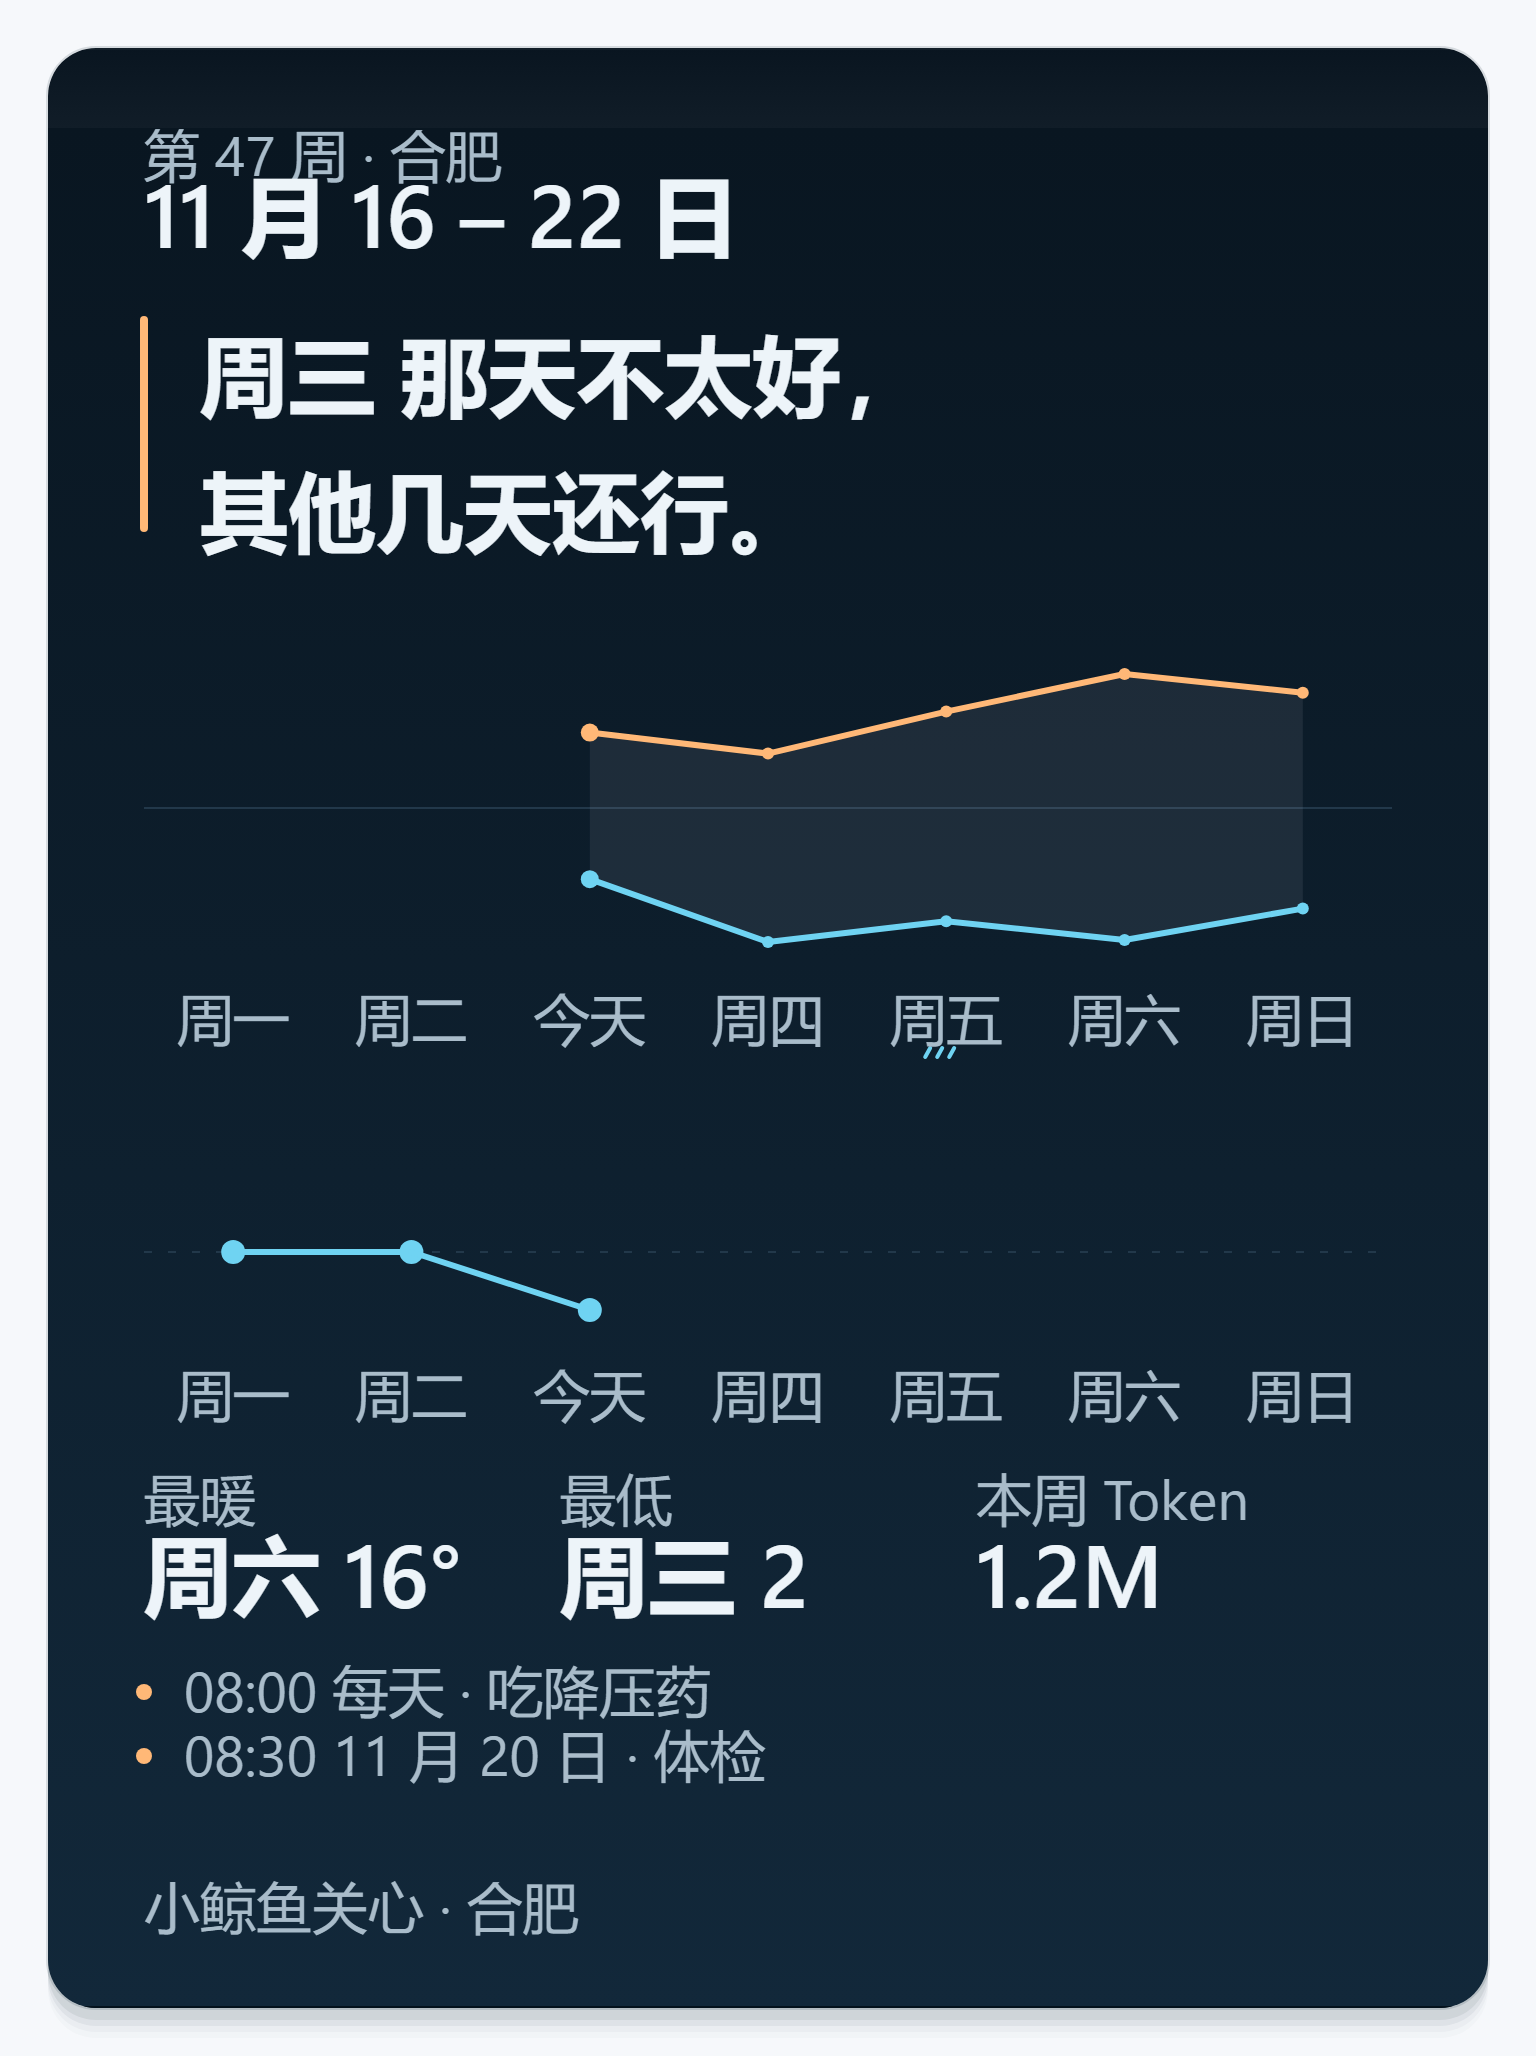
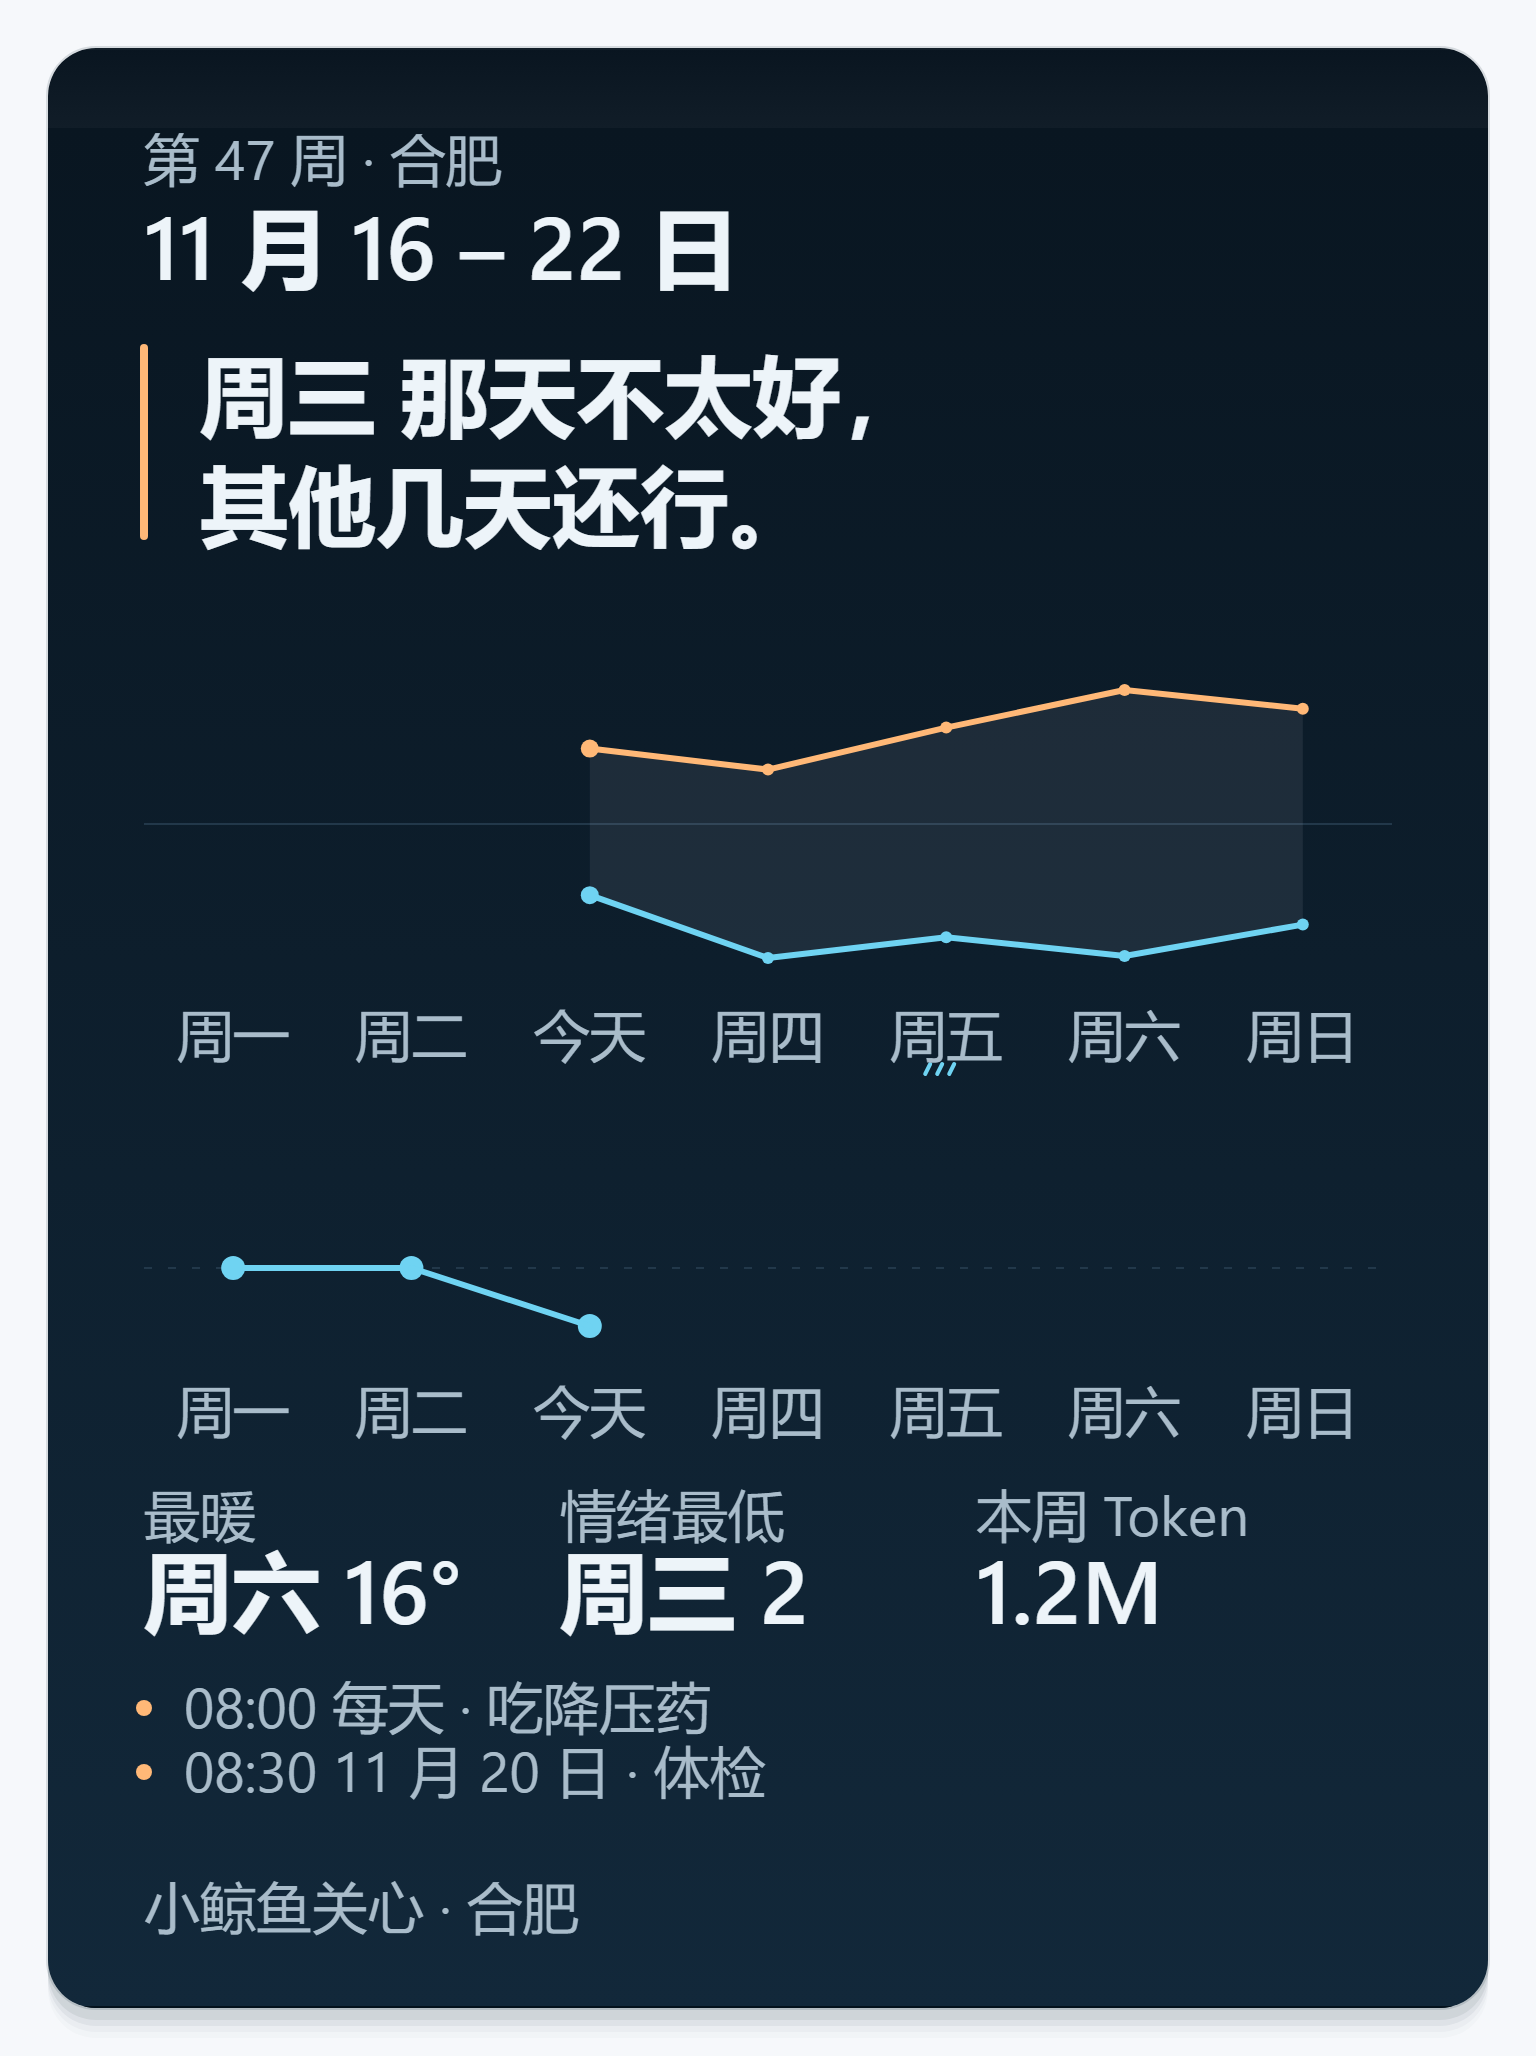
feat: 周卡按 v1.1 重排区带（头两行不再相撞）+ 事实带第二格定名
- 区带按规格 v1.1（159 行）重排：头 40–124（周序 66 / 区间 116）、导语 148–256
  （竖线 150–244，基线 190/245，行距 55）、温度 280–508（轨道 300–476，中线 388，
  日标 504，雨标 508–513）、情绪 532–692（轨道 552–668，中性 610，日标 692）、
  事实 716–792（标签 744 / 值 788）、提醒 816–892（基线 840/872）、脚 916–946 不动
- 事实带第二格：标签「最低」→「情绪最低」，值格式 周三 2 / 周三 2.5（整数不补零、
  非整数 1 位，不写「分」）
- 实测（2x 图逐像素扫）：头两行净缝 12.0px（旧版字形互相压 0.5px），导语两行行距 54.5px
- 单测补 6 条几何断言（66/116、190/245、388、744/788、840/872、610/940），共 72 条
- assets/screenshot-week.png 重渲（1536×2056，245KB），日卡三张 sha 未变

diff --git a/test/card-week.test.js b/test/card-week.test.js
@@ -69,26 +69,33 @@ test('weekly card', async () => {
   assert(svg.startsWith('<svg') && svg.endsWith('</svg>'), '是一个完整 SVG')
   checkBudget(svg)
   assert(svg.includes('第 47 周') && svg.includes('11 月 16 – 22 日'), '头：第 47 周 + 本周区间')
+  // 规格 v1.1 的新区带（159 行）：头 40–124 / 导语 148–256 / 温度 280–508 / 情绪 532–692 / 事实 716–792 / 提醒 816–892
+  assert(svg.includes('<text x="48" y="66"') && svg.includes('<text x="48" y="116"'), '头两行基线 66 / 116')
+  assert(svg.includes('<text x="76" y="190"') && svg.includes('<text x="76" y="245"'), '导语基线 190 / 245（行距 55）')
+  assert(svg.includes('y1="388" x2="672" y2="388"'), '温度带中线在 388（= 300/476 中点）')
+  assert(svg.includes('<text x="48" y="744"') && svg.includes('y="788"'), '事实带标签 @744 / 值 @788')
+  assert(svg.includes('<text x="68" y="840"') && svg.includes('<text x="68" y="872"'), '提醒基线 840 / 872')
+  assert(svg.includes('y1="610"') && svg.includes('<text x="48" y="940"'), '情绪中性基线 610 / 脚 940')
   // 7 列 = 周一…周日；今天在第 3 列，两张图同一个 x（§9-2）
-  const todayLabels = [...svg.matchAll(/<text x="([\d.]+)" y="(496|684)"[^>]*>今天<\/text>/g)];
+  const todayLabels = [...svg.matchAll(/<text x="([\d.]+)" y="(504|692)"[^>]*>今天<\/text>/g)];
   assert(todayLabels.length === 2 && todayLabels.every((m) => Number(m[1]) === WEEK_COLUMNS[2]), '两张图的「今天」都在第 3 列 x≈270.9')
   // 温度带只画今天→周日：周一 / 周二两列没有点（那是过去的预报，不存在）
   const circleOf = (source) => [...source.matchAll(/<circle cx="([\d.]+)" cy="([\d.]+)" r="([\d.]+)"/g)]
     .map((m) => ({ cx: Number(m[1]), cy: Number(m[2]), r: Number(m[3]) }));
-  const tempDots = circleOf(svg).filter((c) => c.cy >= 292 && c.cy <= 468);
+  const tempDots = circleOf(svg).filter((c) => c.cy >= 300 && c.cy <= 476);
   assert(!tempDots.some((c) => c.cx === WEEK_COLUMNS[0] || c.cx === WEEK_COLUMNS[1]), '周一/周二不画温度点')
   assert(tempDots.some((c) => c.cx === WEEK_COLUMNS[2] && c.r === 4.5), '今天（第 3 列）的点更大：9px')
   // 情绪线只画周一→今天：周四之后没有点、也没有空心圈
-  assert(!circleOf(svg).some((c) => c.cy >= 524 && c.cx === WEEK_COLUMNS[3]), '周四（未来）不画情绪点')
+  assert(!circleOf(svg).some((c) => c.cy >= 532 && c.cx === WEEK_COLUMNS[3]), '周四（未来）不画情绪点')
   // 情绪最低那天 avg=2 → 导语走第 2 条（16 当量，按 572 宽度折成两行）
   assert(svg.includes('周三 那天不太好，') && svg.includes('其他几天还行。'), '导语用第 2 条（折两行，行首不出标点）')
   assert(svg.includes('最暖 周六 16°') || (svg.includes('最暖') && svg.includes('周六 16°')), '事实左：最暖 周六 16°')
-  assert(svg.includes('最低') && svg.includes('周三 2'), '事实中：情绪最低 周三 2')
+  assert(svg.includes('情绪最低') && svg.includes('周三 2'), '事实中：情绪最低 周三 2')
   assert(svg.includes('本周 Token') && svg.includes('1.2M'), '事实右：1.2M（§10 格式）')
   assert(svg.includes('08:30 11 月 20 日 · 体检'), '提醒行：时间 + 时间表 + 内容')
   assert(svg.includes('08:00 每天 · 吃降压药'), '提醒行：每天')
   // 雨标只在有雨的天（周五 rain=55）
-  const rainMarks = [...svg.matchAll(/<line x1="([\d.]+)" y1="500"/g)].map((m) => Number(m[1]));
+  const rainMarks = [...svg.matchAll(/<line x1="([\d.]+)" y1="508"/g)].map((m) => Number(m[1]));
   assert(rainMarks.length === 3 && rainMarks.every((x) => x > WEEK_COLUMNS[3] && x < WEEK_COLUMNS[5]), '只有周五有 3 条雨标')
 
   // 导语第 5 条：没有 ≤2 分的日子、温差 <8、雨日 <3 → 记了 N 次 / 平均 X 分
@@ -133,7 +140,7 @@ test('weekly card', async () => {
 
   // ── 空态 4：无 usage → 事实带 2 栏 x=48/360 ────────────────────────
   const twoCol = buildWeeklyCardSvg(buildWeeklyReview({ data, moods, now }), {}, { now })
-  const factXs = [...twoCol.matchAll(/<text x="([\d.]+)" y="736"/g)].map((m) => Number(m[1]));
+  const factXs = [...twoCol.matchAll(/<text x="([\d.]+)" y="744"/g)].map((m) => Number(m[1]));
   assert(factXs.join(',') === '48,360', '2 栏时 x = 48 / 360（实际 ' + factXs.join(',') + '）')
   assert(!twoCol.includes('本周 Token'), '2 栏时没有 token 格')
 
@@ -141,7 +148,7 @@ test('weekly card', async () => {
   const few = buildWeeklyCardSvg(buildWeeklyReview({ data: { ...data, days: FORECAST_MIDWEEK.slice(0, 3) }, now }), {}, { now })
   assert(few.includes('week-range') && few.includes('stroke-width="8"'), '≤3 天：退化成 8px 区间条（cool→warm）')
   assert(!few.includes('<polyline'), '≤3 天：不画 7 列折线')
-  assert((few.match(/y="496"/g) || []).length === 2, '≤3 天：温度日标不画，只留两端值')
+  assert((few.match(/y="504"/g) || []).length === 2, '≤3 天：温度日标不画，只留两端值')
 
   // ── 空态 6：同温 ──────────────────────────────────────────────────
   const flat = buildWeeklyCardSvg(buildWeeklyReview({ data: { ...data, days: FORECAST_MIDWEEK.map((d) => ({ ...d, min: 12, max: 12 })) }, now }), {}, { now })
@@ -151,7 +158,7 @@ test('weekly card', async () => {
   // ── 空态 7：长城市名 → 14 全角当量 + … ─────────────────────────────
   const longCity = '内蒙古自治区呼伦贝尔市额尔古纳市恩和俄罗斯族民族乡'
   const longSvg = buildWeeklyCardSvg(buildWeeklyReview({ data: { ...data, place: longCity }, now }), {}, { now })
-  const head = /<text x="48" y="64"[^>]*>([^<]*)<\/text>/.exec(longSvg)?.[1] ?? ''
+  const head = /<text x="48" y="66"[^>]*>([^<]*)<\/text>/.exec(longSvg)?.[1] ?? ''
   assert(head.endsWith('…'), '长城市名截断加省略号（' + head + '）')
   assert(measureCardText(head, 28) <= 588, '头行 ≤588px（' + Math.round(measureCardText(head, 28)) + 'px）')
 
@@ -219,5 +226,5 @@ test('weekly card', async () => {
   rmSync(home, { recursive: true, force: true })
   delete process.env.DSH_HOME
 
-  nodeAssert.equal(total(), 66, '断言总数 66')
+  nodeAssert.equal(total(), 72, '断言总数 72')
 })

diff --git a/lib/card-week.js b/lib/card-week.js
@@ -19,22 +19,29 @@ export const WEEK_COLUMNS = [92.6, 181.7, 270.9, 360.0, 449.1, 538.3, 627.4];
 const WEEKDAYS = ['周一', '周二', '周三', '周四', '周五', '周六', '周日'];
 
 // 区带（§4.3 + §1 的三处改动后的最终值）
-const TEMP_TOP = 292;
-const TEMP_BOTTOM = 468;
-const TEMP_MID = 380;
-const TEMP_LABEL_Y = 496;
-const RAIN_TOP = 500;
-const RAIN_DY = 4.5;          // 端点 (x−2.5, 504.5)
-const MOOD_TOP = 544;
-const MOOD_BOTTOM = 660;
-const MOOD_MID = 602;
-const MOOD_LABEL_Y = 684;
-const FACT_LABEL_Y = 736;
-const FACT_VALUE_Y = 780;
+// 区带 y 全部按规格 v1.1（159 行）：头 40–124 / 导语 148–256 / 温度 280–508 /
+// 情绪 532–692 / 事实 716–792 / 提醒 816–892 / 脚 916–946
+const HEAD_WEEK_Y = 66;        // 周序 28/ink2
+const HEAD_RANGE_Y = 116;      // 区间 44/600/ink
+const GUIDE_BAR = { top: 150, bottom: 244, x: 48, width: 4 };
+const GUIDE_X = 76;
+const GUIDE_Y = [190, 245];    // 行距 55（= §3 的 H3 1.25）
+const TEMP_TOP = 300;          // 轨道 300–476（176 高），中线 388 = 两端中点
+const TEMP_BOTTOM = 476;
+const TEMP_MID = 388;
+const TEMP_LABEL_Y = 504;
+const RAIN_TOP = 508;
+const RAIN_DY = 5;             // 端点 (x−2.5, 513)，伸进 508–532 的留白
+const MOOD_TOP = 552;
+const MOOD_BOTTOM = 668;
+const MOOD_MID = 610;
+const MOOD_LABEL_Y = 692;
+const FACT_LABEL_Y = 744;
+const FACT_VALUE_Y = 788;
 const FACT_X3 = [48, 256, 464];
 const FACT_X2 = [48, 360];
 const FACT_MAX_WIDTH = 184;
-const REMINDER_Y = [832, 864];
+const REMINDER_Y = [840, 872];   // 提醒区 816–892；圆点 cy = 基线−10
 const FOOTER_Y = 940;
 
 const pad2 = (n) => String(n).padStart(2, '0');
@@ -226,8 +233,8 @@ export function buildWeeklyCardSvg(review = {}, profile = {}, opts = {}) {
   // ── 头（28/64 + 44/100）────────────────────────────────────────────
   const place = String(review?.city ?? profile?.city ?? '这里').trim() || '这里';
   const cityShort = fitWidth(place, SIZE.label, 14 * SIZE.label); // 14 全角当量
-  nodes.push(text(48, 64, `第 ${week.number ?? 1} 周 · ${cityShort}`, { size: SIZE.label, fill: p.ink2 }));
-  nodes.push(text(48, 100, formatRange(week.start ?? keyOf(now), week.end ?? keyOf(now)), { size: SIZE.h3, fill: p.ink, weight: 600 }));
+  nodes.push(text(48, HEAD_WEEK_Y, `第 ${week.number ?? 1} 周 · ${cityShort}`, { size: SIZE.label, fill: p.ink2 }));
+  nodes.push(text(48, HEAD_RANGE_Y, formatRange(week.start ?? keyOf(now), week.end ?? keyOf(now)), { size: SIZE.h3, fill: p.ink, weight: 600 }));
 
   // ── 导语（4px warm 竖线 + 44/600，§5）──────────────────────────────
   const minMoodSlot = scored.length
@@ -251,9 +258,10 @@ export function buildWeeklyCardSvg(review = {}, profile = {}, opts = {}) {
     const wrapped = wrapGuide(line);
     if (wrapped) { guideLines = wrapped; break; }
   }
-  nodes.push('<line x1="48" y1="136" x2="48" y2="240" stroke="' + p.warm + '" stroke-width="4" stroke-linecap="round"/>');
+  nodes.push('<line x1="' + GUIDE_BAR.x + '" y1="' + GUIDE_BAR.top + '" x2="' + GUIDE_BAR.x + '" y2="' + GUIDE_BAR.bottom
+    + '" stroke="' + p.warm + '" stroke-width="' + GUIDE_BAR.width + '" stroke-linecap="round"/>');
   guideLines.forEach((line, index) => {
-    nodes.push(text(76, [180, 248][index] ?? 248, line, { size: SIZE.h3, fill: p.ink, weight: 600 }));
+    nodes.push(text(GUIDE_X, GUIDE_Y[index] ?? GUIDE_Y[1], line, { size: SIZE.h3, fill: p.ink, weight: 600 }));
   });
 
   // ── 温度带（今天 → 周日）──────────────────────────────────────────
@@ -326,7 +334,7 @@ export function buildWeeklyCardSvg(review = {}, profile = {}, opts = {}) {
   nodes.push('<line x1="48" y1="' + MOOD_MID + '" x2="672" y2="' + MOOD_MID + '" stroke="' + p.rule + '" stroke-width="1" stroke-dasharray="4 8"/>');
   if (!scored.length) {
     // §8.2 整周没有记录：只留虚线和一行字，不画轨道、不画空心圈
-    nodes.push(text(48, 580, '这周还没有记录', { size: SIZE.label, fill: p.ink2 }));
+    nodes.push(text(48, 588, '这周还没有记录', { size: SIZE.label, fill: p.ink2 }));
   } else {
     const yMood = (avg) => MOOD_BOTTOM - ((avg - 1) / 4) * (MOOD_BOTTOM - MOOD_TOP);
     const byCol = new Map(moods.map((row) => [row.col, row]));
@@ -364,7 +372,7 @@ export function buildWeeklyCardSvg(review = {}, profile = {}, opts = {}) {
   }
   if (scored.length) {
     const low = scored.reduce((best, slot) => (num(slot.score) <= num(best.score) ? slot : best));
-    cells.push({ label: '最低', value: (low.weekday ?? '') + ' ' + scoreText(low.score) });
+    cells.push({ label: '情绪最低', value: (low.weekday ?? '') + ' ' + scoreText(low.score) });
   }
   const tokenText = review?.usage ? formatTokens(review.usage.tokens) : null;
   if (tokenText != null) cells.push({ label: '本周 Token', value: tokenText });
